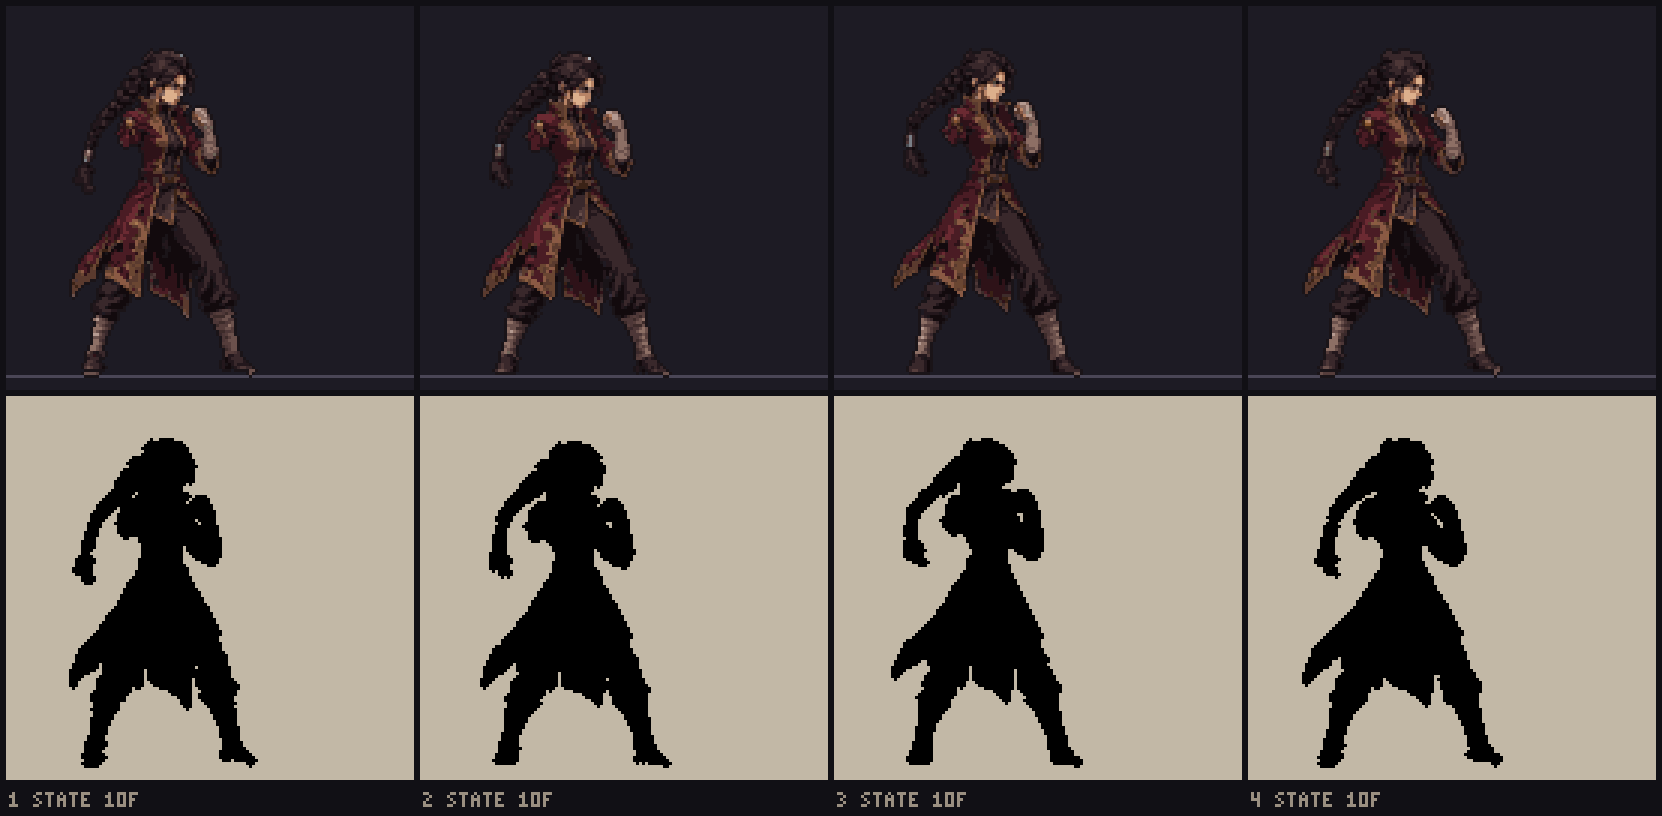
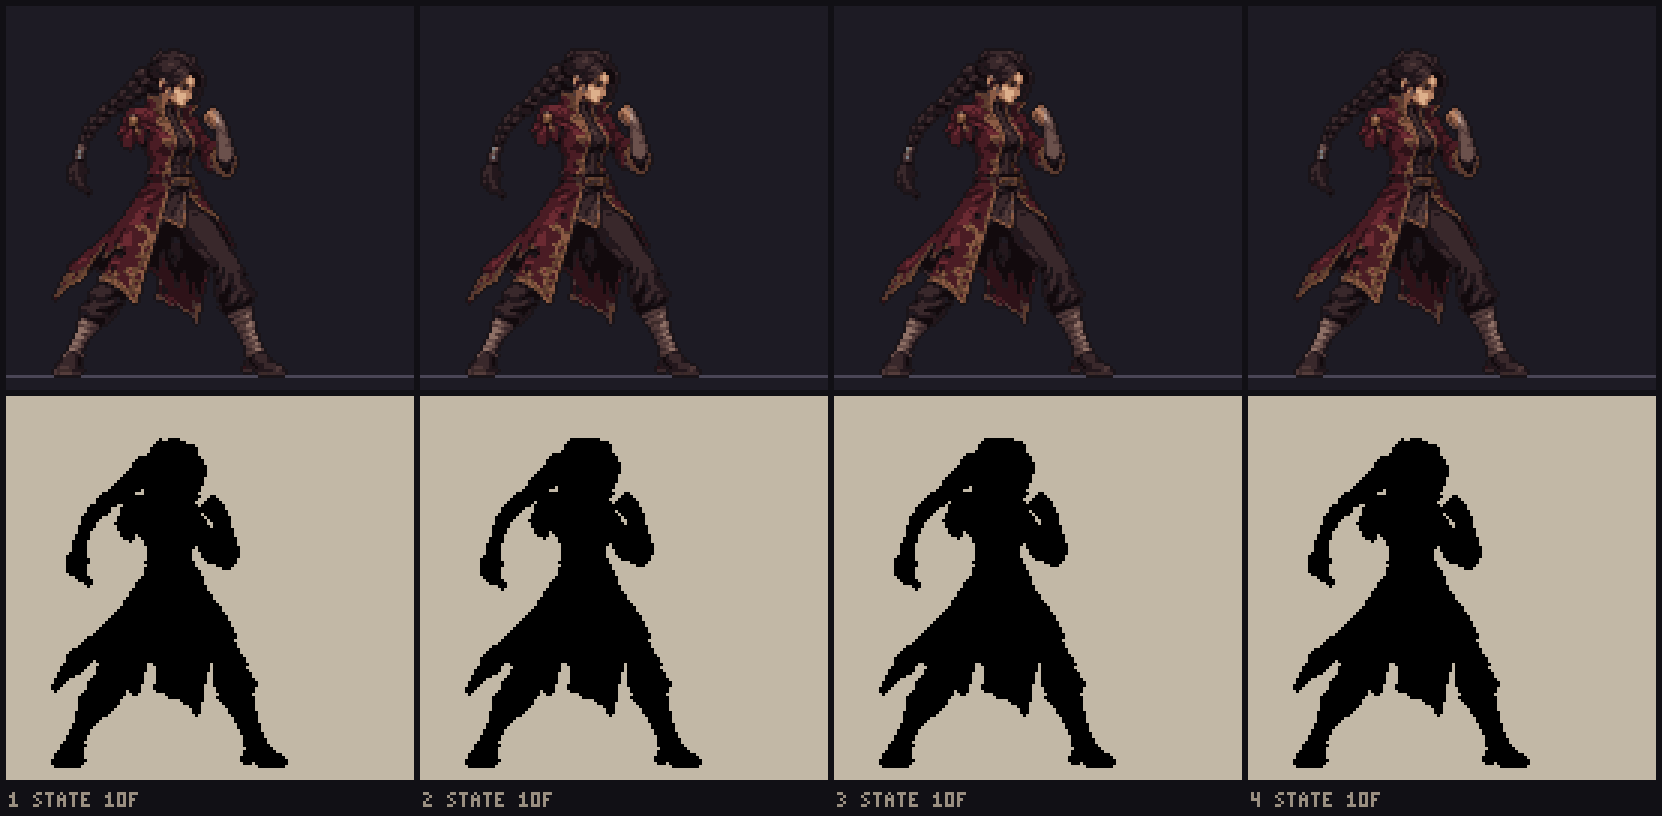
Idle composed from the compose base (same face and colours as walk and jab): breathing as 1 px upper-body shifts, looping lag
- compose: loop flag wraps the braid/coat-tail lag; arm segments without an angle stay as drawn
- the regenerated idle JPEG is replaced by the composed sheet; reviewed
- docs/art_review/rook_faces_compare.png: the face comparison that showed the drift

Claude-Session: https://claude.ai/code/session_01AKGexPXdP4PDQG8Yjd4zZT

diff --git a/tools/art/compose.ts b/tools/art/compose.ts
@@ -59,6 +59,8 @@ export interface ComposePose {
 export interface ComposeSpec {
   base: string;
   out: string;
+  /** A looping animation: the lag wraps around (the first frames lag behind the last ones). */
+  loop?: boolean;
   poses: ComposePose[];
 }
 
@@ -143,13 +145,14 @@ export function composeSheet(char: string, spec: ComposeSpec, write = true): Buf
     const f = blank(fig.w + padR, fig.h + padL);
     const [bx, by] = shifts[i]!;
     const hy = Math.round((pose.head_dy ?? 0) * k);
-    const late = i >= LAG_FRAMES ? shifts[i - LAG_FRAMES]! : ([0, 0] as Pt);
+    const late = i >= LAG_FRAMES ? shifts[i - LAG_FRAMES]! : spec.loop ? shifts[(i - LAG_FRAMES + shifts.length) % shifts.length]! : ([0, 0] as Pt);
     // Far arm, behind everything: chained segments from the shifted shoulder.
     const first = base.arm[armNames[0]!]!;
     let at: Pt = [first.pivot[0] + bx, first.pivot[1] + by];
     for (const n of armNames) {
       const seg = base.arm[n]!;
-      const target = pose[n] as number;
+      // An arm segment without an angle in the pose stays as drawn in the base.
+      const target = (pose[n] as number | undefined) ?? angleOf(seg.pivot, seg.end);
       const rot = deg(-(target - angleOf(seg.pivot, seg.end)));
       const c = Math.cos(rot);
       const s = Math.sin(rot);

diff --git a/CLAUDE.md b/CLAUDE.md
@@ -139,7 +139,7 @@ public/art/           # generated sprite sheets (npm run art) and art
 ## Art pipeline (sprites, animation, effects)
 
 - **Character art comes from an image model, converted by code** (since Prompt 04B; the Part A code rig is retired to `tools/art/legacy/`). The user generates pose sheets from an approved reference (`art_src/<char>/reference/`) using the prompts in `docs/art_requests/`, and adds them to `art_src/<char>/raw/<batch>/` with a `manifest.json`. `npm run art` (`tools/art/`) converts them: background removal (alpha, or flood-fill through near-white from the edges so small inner whites survive; enclosed white gaps of 12+ px and floor shadows removed; near-black floor lines under the figures and small detached dark marks such as motion lines dropped), defringe (the 2 px rim blended with the white background takes colours from deeper inside, so no pale halo), figure splitting, one scale per sheet from the anchor pose (pose 1, the reference stance) so it is 108 px tall, area-average downscale, CIELAB palette snap to the character's own ramps (`ramps` in `art_src/<char>/design.json`; no dithering, < 50% opacity → transparent), cleanup, 1 px outline. Pivot: the centre between the feet when both are on the floor, otherwise the supporting foot (manifest `pivot_x` overrides). Durations and impact frames come from the move data and the art spec, never the images.
-- Image prompts describe only what is visible (image models draw every noun they read: "no right arm" draws one); `npm run art-requests` and a test reject negative wording. Rook is described as one-armed and southpaw, her single arm the left one on the far side of her body. Hand-written pose notes per move go in `art_src/<char>/pose_notes.json`. Attacks also get an **edit base** (`docs/art_requests/bases/<sheet>_base.png`: pose 1 of an approved model-drawn sheet, `edit_base` in `design.json`, repeated once per pose on one ground line) that the user edits one figure at a time; figure 1 stays the anchor. Sheets may be PNG or JPEG. Small animations can share a sheet (an inner list in `art_src/<char>/batches.json`, sheet `<char>_bNN_NN.png`). Hand-set `pivot_x` values in a batch manifest survive `npm run art-requests` (used for lying and airborne poses, pivot at the hips). Where the image model can't draw a pose (Rook's one-armed attacks), `npm run art-compose` builds the raw sheet from **one compose base per character** (`art_src/<char>/compose/base.json`: source sheet, figure index, image fingerprint, waist and neck lines, head polygon, arm segments, lagging parts; Rook's is figure 1 of `rook_walk_forward_02`, bronze trim) by moving its own pixels: arm segments rotate about their pivots (far arm behind the body); each pose (`art_src/<char>/compose/<sheet>.json`) also sets `body_dx`/`body_dy` (everything above the waist, in sprite pixels, blended over `waist_blend` rows so the belt has no step) and `head_dy` (head only); braid and coat tail lag the body shift by 2 frames (their root follows what it hangs from, their tip the shift of 2 frames earlier). Strike defaults: lean 2–3 px toward the hit on impact, head dips 1 px, settle 1 px past neutral on the recoil, then 0. If the base image changes, its fingerprint no longer matches and compose stops. The result goes through the same converter, checks and review.
+- Image prompts describe only what is visible (image models draw every noun they read: "no right arm" draws one); `npm run art-requests` and a test reject negative wording. Rook is described as one-armed and southpaw, her single arm the left one on the far side of her body. Hand-written pose notes per move go in `art_src/<char>/pose_notes.json`. Attacks also get an **edit base** (`docs/art_requests/bases/<sheet>_base.png`: pose 1 of an approved model-drawn sheet, `edit_base` in `design.json`, repeated once per pose on one ground line) that the user edits one figure at a time; figure 1 stays the anchor. Sheets may be PNG or JPEG. Small animations can share a sheet (an inner list in `art_src/<char>/batches.json`, sheet `<char>_bNN_NN.png`). Hand-set `pivot_x` values in a batch manifest survive `npm run art-requests` (used for lying and airborne poses, pivot at the hips). Where the image model can't draw a pose (Rook's one-armed attacks, and her idle, whose face ChatGPT kept drawing paler), `npm run art-compose` builds the raw sheet from **one compose base per character** (`art_src/<char>/compose/base.json`: source sheet, figure index, image fingerprint, waist and neck lines, head polygon, arm segments, lagging parts; Rook's is figure 1 of `rook_walk_forward_02`, bronze trim) by moving its own pixels: arm segments rotate about their pivots (far arm behind the body); each pose (`art_src/<char>/compose/<sheet>.json`) also sets `body_dx`/`body_dy` (everything above the waist, in sprite pixels, blended over `waist_blend` rows so the belt has no step) and `head_dy` (head only); braid and coat tail lag the body shift by 2 frames (their root follows what it hangs from, their tip the shift of 2 frames earlier). Strike defaults: lean 2–3 px toward the hit on impact, head dips 1 px, settle 1 px past neutral on the recoil, then 0. If the base image changes, its fingerprint no longer matches and compose stops. The result goes through the same converter, checks and review.
 - The converted reference is the **canonical character** (`art_src/<char>/canonical.json`): the scale anchor and the colour reference. Every converted frame is checked against it (`tools/art/consistency.ts`: colour proportions; the anchor's height within 3 px is blocking because it sets the whole sheet's scale, its width and colour are warnings) plus a visual review recorded in `raw/<batch>/review.json` (each verdict carries the image's fingerprint, so a replaced image needs a new review); reports go to `docs/art_review/<char>_<batch>.md`. Only animations whose frames have all arrived and none failed review are put in the game. Never edit generated PNGs by hand.
 - Palette: `art_src/palette.json` (ramps dark → light; `wraps_warm`, `trousers` and `bronze` were added for Rook's reference; bronze is her tarnished-gold trim and counts as gold in the consistency checks). Rook: oxblood coat (her main colour, a deep muted red-brown, not the glint red) with tarnished-gold accents. Corvane (reference `art_src/corvane/reference/`, canonical 117 px tall): `ash` (his mauve-grey skin) and `rust` (shorts and wraps) were added from his reference; his right arm is Rook's arm and uses Rook's `skin` ramp. Per character, `art_src/<char>/design.json` sets `height_px` (default 108), `ramps`, and the consistency `categories`/`tracked` (default: Rook's). References may be PNG or JPEG. `accents` in `design.json` (`ramp`, `max_de`, `min_share`) keep small bright details through the downscale (Corvane's eye glow): a sprite pixel whose source block is at least `min_share` accent takes the accent colour, and accent pixels are never removed as one-pixel islands. `#ff3a2e` is reserved for sweeping glints and never appears on a character.
 - Derived animations (`art_src/<char>/derived.json`: `{ "from", "reverse" }`) reuse another animation's cells; Rook's `walk_back` is `walk_forward` in reverse.

diff --git a/docs/art_review/rook_batch_01.md b/docs/art_review/rook_batch_01.md
@@ -6,15 +6,15 @@ Canonical rook: 79x108 px; coat 24%, gold 5%, skin 9%, darks 49%, wraps 10%.
 
 ## rook_idle_01.png
 
-Scale 0.2049 (anchor → 108 px). Image `3c8baa8432bc` (`rook_idle_01.jpeg`).
+Scale 0.1256 (anchor → 108 px). Image `16befa971b2c` (`rook_idle_01.png`).
 
 | # | Pose | Size | Colour error (mean / p95 ΔE) | Colours | Checks | Visual | Verdict |
 | --- | --- | --- | --- | --- | --- | --- | --- |
-| 1 | anchor | 68x107 | 4.0 / 7.6 | coat 22%, gold 5%, skin 11%, darks 48%, wraps 11% | warning: anchor width 68 px (canonical 79) | ok | PASS |
-| 2 | idle 0 | 61x108 | 4.0 / 7.7 | coat 23%, gold 4%, skin 11%, darks 48%, wraps 11% | ok | ok | PASS |
-| 3 | idle 1 | 62x107 | 4.0 / 7.6 | coat 22%, gold 4%, skin 11%, darks 49%, wraps 11% | ok | ok | PASS |
-| 4 | idle 2 | 62x108 | 4.0 / 7.7 | coat 21%, gold 4%, skin 12%, darks 50%, wraps 10% | ok | ok | PASS |
-| 5 | idle 3 | 65x108 | 4.0 / 7.6 | coat 23%, gold 4%, skin 11%, darks 48%, wraps 11% | ok | ok | PASS |
+| 1 | anchor | 77x108 | 3.9 / 7.4 | coat 26%, gold 4%, skin 12%, darks 49%, wraps 9% | ok | ok | PASS |
+| 2 | idle 0 | 77x108 | 3.9 / 7.4 | coat 26%, gold 4%, skin 12%, darks 49%, wraps 9% | ok | ok | PASS |
+| 3 | idle 1 | 77x108 | 3.9 / 7.4 | coat 26%, gold 4%, skin 12%, darks 49%, wraps 9% | ok | ok | PASS |
+| 4 | idle 2 | 77x108 | 3.9 / 7.4 | coat 26%, gold 4%, skin 12%, darks 49%, wraps 9% | ok | ok | PASS |
+| 5 | idle 3 | 77x108 | 3.9 / 7.4 | coat 26%, gold 4%, skin 12%, darks 49%, wraps 9% | ok | ok | PASS |
 
 ## rook_walk_forward_01.png
 
